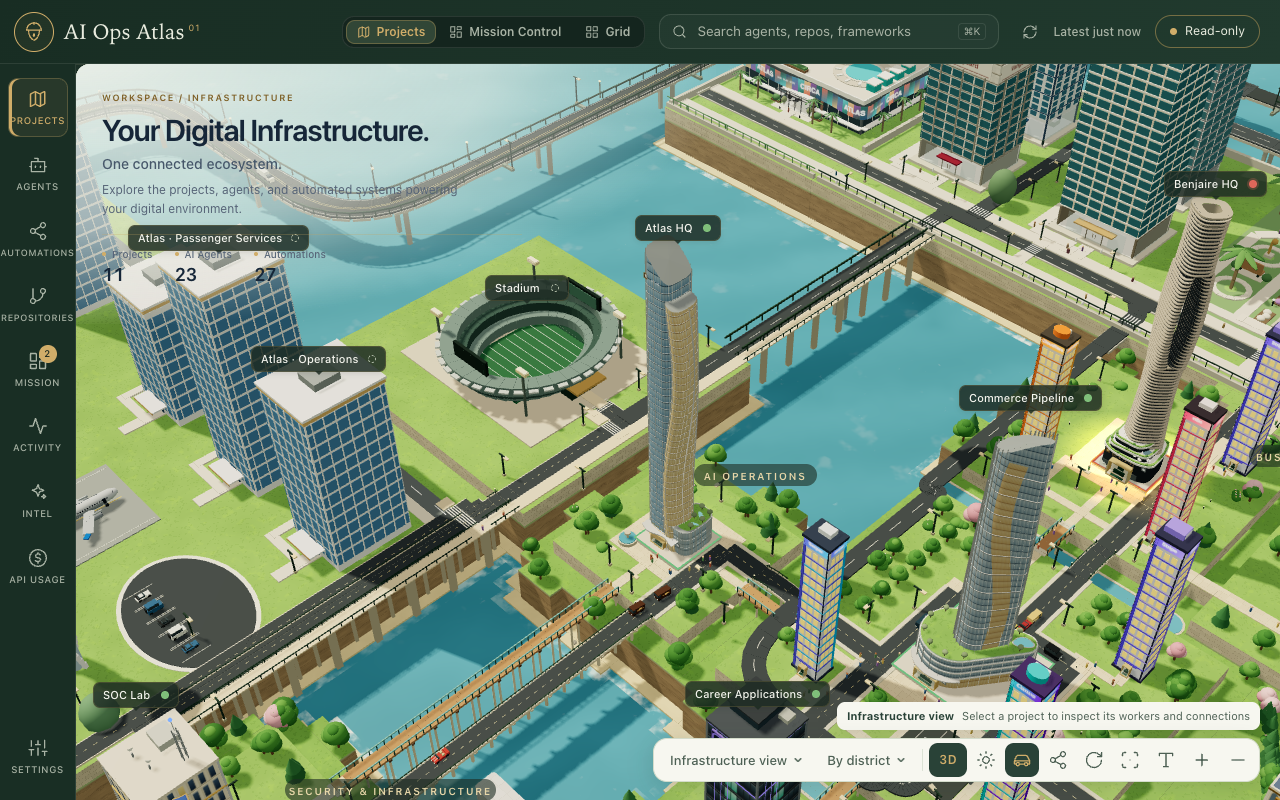
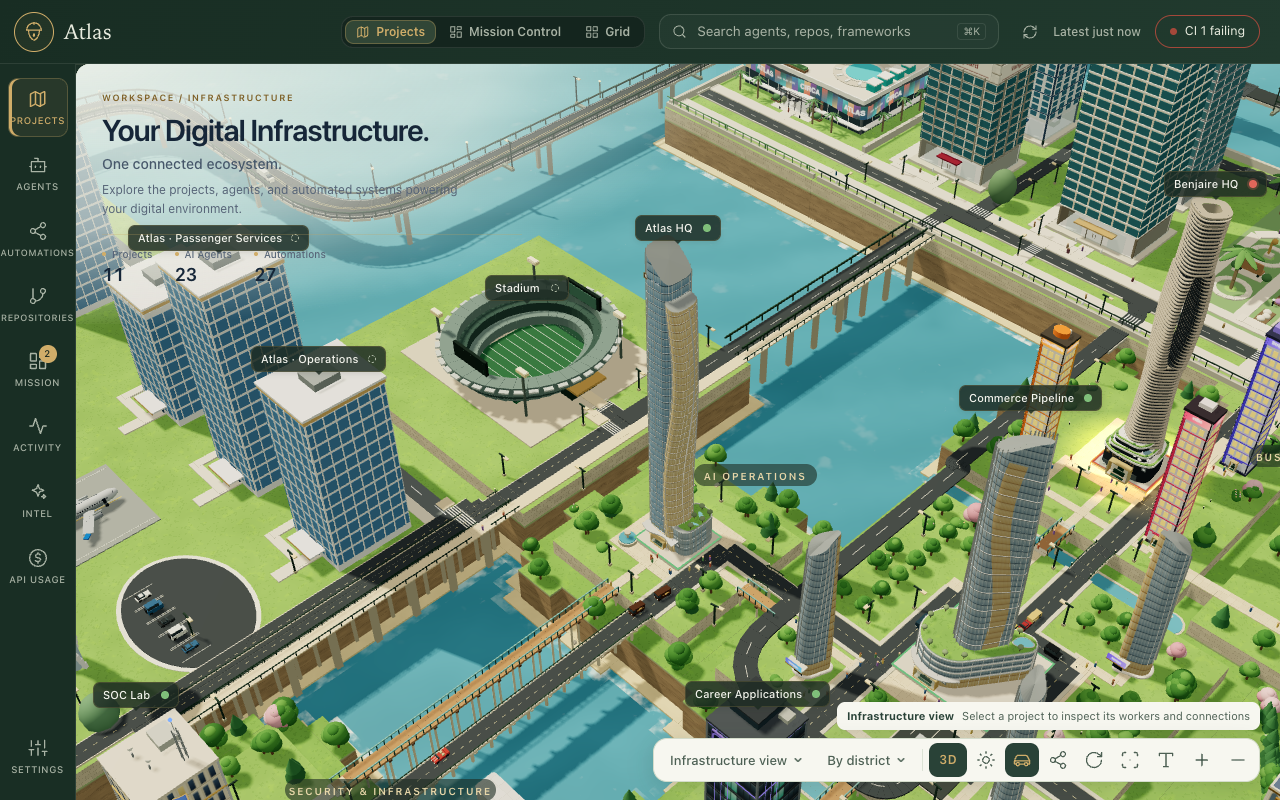
Record Projects validation against current Atlas main

diff --git a/docs/mac-render-efficiency.md b/docs/mac-render-efficiency.md
@@ -35,3 +35,5 @@ Confirmed in `App.tsx`: the view-keyed boundary and conditional MapView mount de
 Projects now retains exactly one map instance outside the route-keyed boundary. Its inactive host stays measured but is invisible, inert and excluded from accessibility. Retaining dimensions avoids a resize-observer race that can leave a resumed canvas waiting to draw. An explicit active prop stops the canvas and frame pump while other pages are open; 2D camera animation is cancelled and open interiors close as before. The first visit shows loading/preparation until a real map frame has been submitted. Context-loss retry still creates a fresh canvas when genuinely needed.
 
 Validation on the latest city: browser regression passed three page round trips with the exact same canvas, zero hidden draw calls even after an unrelated wake, successful redraw on return, building entry/exit, and first-load status. Desktop/phone screenshots reviewed: [desktop](screenshots/projects-resume/desktop.png), [phone](screenshots/projects-resume/phone.png). Full unit suite: **696 passed, 2 skipped**; lint, type checks and build passed. No native latency percentage is claimed. One cached scene remains in memory off-page; initial startup still needs its one-time 3D setup. The saved view/camera and graphics quality are retained rather than allocating multiple scenes.
+
+Final reconciliation through main `de6e8f2` preserves Atlas naming, CI health, Commerce annexes, every-view placement and close-up lighting changes. Revalidated: **716 unit tests passed, 2 skipped**; lint, type checks, build and both Projects browser regressions passed. Screenshot artifacts were refreshed on this combined version. The agent Output implementation remains a separate PR (#194).
